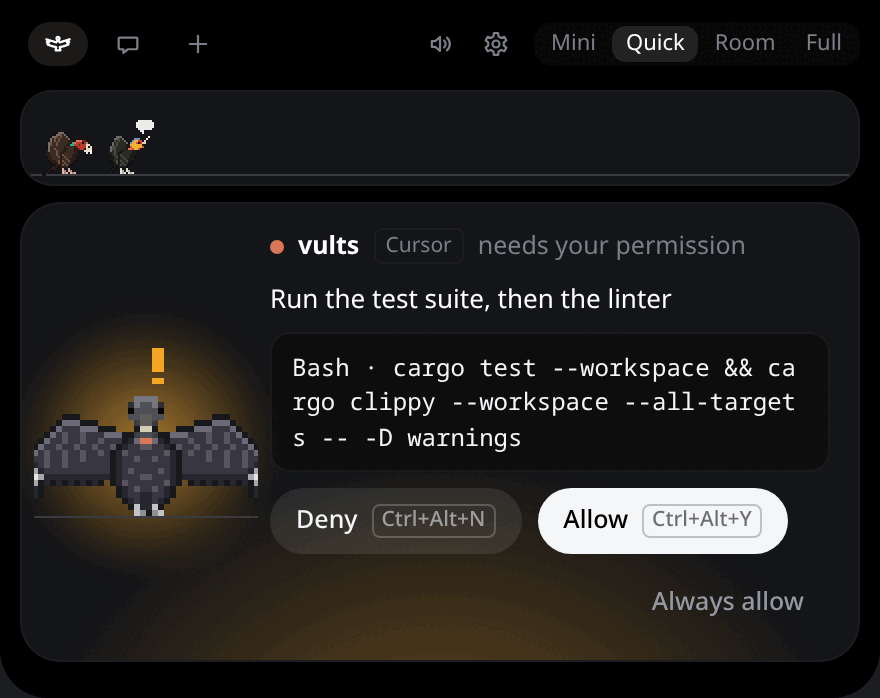
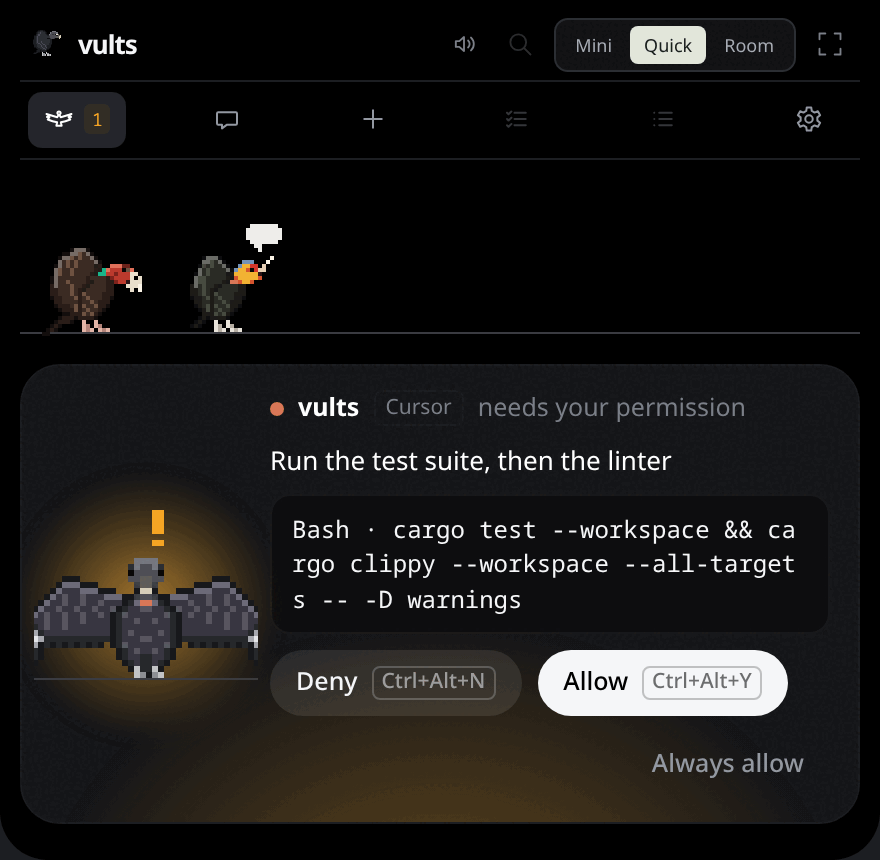
L8: Tasks and the pill, to match the prototype
Tasks, which the prototype does not draw, in its cards: mono kickers per
roost, quiet cards, outline buttons with New task as the light primary,
rectangular fields. Mini spreads its vults over the wire after Zeca, as
many as there are, with the prototype's fuel under it: a hairline per
plan, amber from 70% and red from 90%. The docs' pictures are taken again.

Claude-Session: https://claude.ai/code/session_01FYCciNdEutL3RFauTHRBCD

diff --git a/ui/src/island/render.ts b/ui/src/island/render.ts
@@ -23,6 +23,7 @@ import {
   COMPACT_SCENE,
   COMPACT_W,
   FOCUS_SCENE,
+  compactAt,
   HABITAT_COLUMN,
   HABITAT_PLACES,
   HABITAT_SCENE,
@@ -263,13 +264,17 @@ export function createIsland(root: HTMLElement, actions: Actions): Island {
   const focusScene = new Scene(FOCUS_SCENE, hidden);
   const habitatScene = new Scene(HABITAT_SCENE, hidden);
   let habitatPlaces = HABITAT_PLACES;
+  let compactPerched = -1;
   const ticker = new Ticker();
   /** Zeca's place in the focus card: his canvas and the glow behind him. It moves with the card. */
   const perch = el("div", { class: "perch" }, el("span", { class: "glow" }), focusScene.canvas);
 
   const badges = el("div", { class: "badges" });
   // Mini has no text (ADR 0021): what it would say is its label, for a screen reader.
-  const compact = el("div", { class: "layer compact" }, compactScene.canvas, badges);
+  // The prototype's fuel: each plan's most-used window as a hairline under the pill, in its color.
+  const fuel = el("div", { class: "pill-fuel" });
+  fuel.setAttribute("aria-hidden", "true");
+  const compact = el("div", { class: "layer compact" }, compactScene.canvas, badges, fuel);
   compact.setAttribute("role", "button");
   compact.tabIndex = 0;
   compact.addEventListener("keydown", (e) => {
@@ -997,6 +1002,17 @@ export function createIsland(root: HTMLElement, actions: Actions): Island {
     // Someone needs you: the pill's border pulses amber.
     // Not while paused: every card is answered in its terminal then.
     compact.classList.toggle("needs", !paused && shown.some((s) => s.attention === "needs-you"));
+    const plans = new Map<string, number>();
+    for (const w of usage) plans.set(w.agent, Math.max(plans.get(w.agent) ?? 0, w.used_percent));
+    fuel.replaceChildren(
+      ...[...plans].map(([agent, used]) => {
+        const bar = el("b");
+        bar.style.width = `${Math.min(100, Math.round(used))}%`;
+        // Amber from 70%, red from 90%, as the island's meters say it.
+        bar.style.background = used >= 90 ? "var(--error)" : used >= 70 ? "var(--warn)" : `var(--agent-${agent}, var(--agent-other))`;
+        return el("i", {}, bar);
+      }),
+    );
     const byKey = new Map(shown.map((s) => [key(s), s]));
     badges.replaceChildren(
       ...vults.flatMap((slot) => {
@@ -1143,6 +1159,12 @@ export function createIsland(root: HTMLElement, actions: Actions): Island {
     // With Zeca off (ADR 0010) an empty wire stays empty.
     const idle = zecaShown() ? { clip: idleClip(), agent: "claude" as const, alone: true } : null;
     assignSpecies(shown);
+    // The pill's vults spread over the wire after Zeca, as many as there are (up to eight).
+    const perched = Math.min(COMPACT_SCENE.vults.max, shown.filter((s) => s !== front).length);
+    if (perched !== compactPerched) {
+      compactPerched = perched;
+      compactScene.resize(COMPACT_W, COMPACT_SCENE.vults.max, compactAt(perched));
+    }
     compactScene.update(shown, front, front ? null : idle);
     if (chatShown) focusScene.update([], null, { clip: chat.clip(now), agent: chat.agent() });
     else focusScene.update([], front, front ? null : idle);

diff --git a/ui/src/surfaces/nest/nest.css b/ui/src/surfaces/nest/nest.css
@@ -791,16 +791,19 @@ body {
   flex-direction: column;
   gap: 12px;
 }
+/* L8: the tasks in the prototype's cards, though it draws no Tasks tab of its own. */
 .task {
-  padding: 10px 12px;
-  border: 1px solid var(--border);
-  border-radius: 12px;
+  padding: 16px 20px;
+  border: 1px solid #292b31;
+  border-radius: 8px;
+  background: #101114;
 }
 .task.done,
 .task.dropped {
   opacity: 0.6;
 }
 .task-goal {
+  font-size: 14px;
   font-weight: 600;
   color: var(--fg);
 }
@@ -821,13 +824,14 @@ body {
   align-items: center;
 }
 .task-select {
+  min-height: 30px;
   font: inherit;
   font-size: 12px;
   color: var(--fg);
-  background: var(--panel);
-  border: 1px solid var(--border);
-  border-radius: 8px;
-  padding: 3px 6px;
+  background: #141518;
+  border: 1px solid #303239;
+  border-radius: 6px;
+  padding: 4px 8px;
 }
 .task-new {
   display: flex;
@@ -839,10 +843,10 @@ body {
   font: inherit;
   font-size: 13px;
   color: var(--fg);
-  background: var(--panel);
-  border: 1px solid var(--border);
-  border-radius: 8px;
-  padding: 6px 8px;
+  background: #141518;
+  border: 1px solid #303239;
+  border-radius: 6px;
+  padding: 8px 10px;
   resize: vertical;
 }
 .tasks-finished {
@@ -853,13 +857,14 @@ body {
 }
 .task-issue-input,
 .task-budget-input {
+  min-height: 30px;
   font: inherit;
   font-size: 12px;
   color: var(--fg);
-  background: var(--panel);
-  border: 1px solid var(--border);
-  border-radius: 8px;
-  padding: 3px 6px;
+  background: #141518;
+  border: 1px solid #303239;
+  border-radius: 6px;
+  padding: 4px 8px;
   width: 170px;
 }
 .task-budget-input {
@@ -1542,11 +1547,30 @@ body {
 }
 /* Tasks (U8): each roost's tasks under its name; the review loop's rounds as marks. */
 .tasks-roost {
-  margin: 10px 0 0;
-  font-size: 11px;
-  letter-spacing: 0.04em;
+  margin: 14px 0 -2px;
+  font: 9px var(--mono);
+  letter-spacing: 1.5px;
   text-transform: uppercase;
-  color: var(--fg-muted);
+  color: #9da29b;
+}
+/* The tab's buttons as the prototype's: bordered outlines, a light primary. */
+.nest-tasks .btn {
+  min-height: 30px;
+  padding: 5px 11px;
+  border: 1px solid #3a3d44;
+  border-radius: 6px;
+  background: none;
+  font-size: 11.5px;
+}
+.nest-tasks .btn:hover:not(:disabled) {
+  border-color: #6b7065;
+  background: var(--raised);
+}
+.nest-tasks .btn.primary {
+  border-color: #e8eae4;
+  background: #e8eae4;
+  color: #111;
+  font-weight: 650;
 }
 .task-rounds-line {
   display: flex;

diff --git a/ui/src/island/scene.ts b/ui/src/island/scene.ts
@@ -38,8 +38,8 @@ export interface SceneLayout {
 /** Width of a perched bird at 1x, in CSS pixels. */
 export const BIRD_W = 24;
 
-/** Mini, the pill (ADR 0021): no text, only the flock. Zeca on the left, up to eight vults roosting
- *  along the wire from the right. */
+/** Mini, the pill (ADR 0021, the prototype's): no text, only the flock. Zeca on the left, up to
+ *  eight vults spread along the wire after him. */
 export const COMPACT_W = 340;
 export const COMPACT_H = 38;
 export const COMPACT_SCENE: SceneLayout = {
@@ -50,7 +50,7 @@ export const COMPACT_SCENE: SceneLayout = {
   vults: {
     scale: 1,
     max: 8,
-    at: (slot) => ({ x: COMPACT_W - 14 - BIRD_W - slot * 30, wire: 33 }),
+    at: (slot) => ({ x: 52 + slot * 36, wire: 33 }),
   },
   skyTop: 0,
   flights: true,
@@ -58,6 +58,14 @@ export const COMPACT_SCENE: SceneLayout = {
   // No room over their heads: the badges say it.
   emotes: false,
 };
+
+/** The pill's places for `n` vults: spread evenly from after Zeca to the right end. */
+export function compactAt(n: number): SceneLayout["vults"]["at"] {
+  const first = 52;
+  const last = COMPACT_W - 14 - BIRD_W;
+  const step = n > 1 ? (last - first) / (n - 1) : 0;
+  return (slot) => ({ x: Math.round(first + slot * step), wire: 33 });
+}
 
 /** The focus card: Zeca large, on his own piece of wire. */
 /** Zeca large (3x) on his own piece of wire, with room over his head for a mark. */

diff --git a/tests/visual/mini.spec.ts b/tests/visual/mini.spec.ts
@@ -23,8 +23,8 @@ test("mini: a quiet flock has no amber edge", async ({ page }) => {
 test("mini: a click on a vult opens the island on its session", async ({ page }) => {
   await page.goto(lab("state=busy-flock"));
   const box = (await page.locator("#island .compact").boundingBox())!;
-  // The first vult roosts at the right end of the wire (scene.ts, COMPACT_SCENE).
-  await page.mouse.click(box.x + 340 - 14 - 12, box.y + 24);
+  // The first vult roosts right after Zeca (scene.ts, compactAt).
+  await page.mouse.click(box.x + 52 + 12, box.y + 24);
   await expect(page.locator("#island")).toHaveClass(/is-open/);
   // That vult's session is in front now.
   const id = await page.locator("body").getAttribute("data-focus");

diff --git a/ui/src/island/island.css b/ui/src/island/island.css
@@ -96,6 +96,29 @@ button:focus-visible,
   width: 340px;
   height: 38px;
 }
+.pill-fuel {
+  position: absolute;
+  right: 14px;
+  bottom: 1px;
+  left: 14px;
+  display: flex;
+  gap: 8px;
+  height: 2px;
+  pointer-events: none;
+}
+.pill-fuel i {
+  position: relative;
+  flex: 1;
+  overflow: hidden;
+  border-radius: 1px;
+  background: rgba(255, 255, 255, 0.08);
+}
+.pill-fuel b {
+  position: absolute;
+  top: 0;
+  bottom: 0;
+  left: 0;
+}
 /* Someone needs you: the pill's edge pulses amber. Still where motion is reduced. */
 .compact::after {
   content: "";

diff --git a/ui/src/surfaces/nest/tasks.ts b/ui/src/surfaces/nest/tasks.ts
@@ -448,7 +448,7 @@ export function createTasks(backend: TasksBackend): { element: HTMLElement; refr
             "div",
             { class: "proposal-actions" },
             el("button", {
-              class: "btn small",
+              class: "btn small primary",
               text: t("New task"),
               onclick: () => {
                 const first = backend.folders()[0];

diff --git a/docs/dev/plan-living-flock.md b/docs/dev/plan-living-flock.md
@@ -155,7 +155,7 @@ wait until they do), D7 (Zeca optional).
 | L5 | **Done.** Sub-tabs are the U11 filters (the card's groups, not the prototype's Inbox/Issues/Releases, which GitHub's card does not hold); no account name (gh keeps it). **Nest › Connections.** Connector chips with counts and *+*; the connector's head (account, synced, refresh); its groups as sub-tabs; the list beside the selected row's detail (checks, review, branch) and *Open in GitHub* | Visual tests; the U11 filters' tests on the new look |
 | L6 | **Done.** The Settings lab is `tests/visual/settings.spec.ts`, on Settings' own page with a mocked bridge. **Settings.** The sidebar in groups with icons (Experience: General, Chat & voice, Flock & Zeca; Work: Agents, Approvals, Projects; System: Activity, Connectors, Phone, About); eyebrow, title and lede; rows inside cards | Visual tests of Settings' pages (`tests/visual/settings.spec.ts`) |
 | L7 | **Done**: the header and its tabs, the habitat at 2x with names (six places, +N in the last); the quick views keep their own look until K2. **Quick, the island.** The header (mark, search, switch, open), the icon tabs with counts, the habitat over roost labels, the needs-you chip; the quick Chat, Activity and Connections views as the prototype draws them | Island baselines; card positions, Y/N, 1 to 9, Ctrl+Alt+Y/N unchanged |
-| L8 | **Tasks and the rest.** Tasks, which the prototype does not draw, in the same cards and type; the Mini pill checked against it; the docs' pictures regenerated | Visual tests; `docs-shots` |
+| L8 | **Done.** Tasks in the prototype's cards and buttons; the pill's vults spread over the wire with the plans' fuel line under it; the docs' pictures taken again. **Tasks and the rest.** Tasks, which the prototype does not draw, in the same cards and type; the Mini pill checked against it; the docs' pictures regenerated | Visual tests; `docs-shots` |
 
 Order: L0 and L1 first (every tab sits in the frame), then L2 to L7 one PR each, L8 last. Each
 step compares its screenshots with the prototype's at the same size before review.

diff --git a/CHANGELOG.md b/CHANGELOG.md
@@ -13,6 +13,7 @@ What changed in each release, newest first. Each release's notes on GitHub come 
 - **The Nest's Connections, as the prototype draws it:** a chip per connector, when it last synced and **↻ Refresh**, the filters as tabs, rows by group with their state, and the row picked in detail with **Open in GitHub ↗**.
 - **Settings, as the prototype draws it:** the sidebar in three groups (Experience, Work, System) with icons, a kicker over each page's title, rows in quiet cards, the prototype's switches and buttons.
 - **Quick, as the prototype draws it:** the island's header with its mark, sound, search and the size switch, the tabs as icons with counts and Settings at the end, and the flock twice its size with each session's name under its bird.
+- **Tasks and the pill, to match:** the Tasks tab in the same cards and buttons; Mini spreads the flock over its wire, with a hairline per plan for its usage.
 - **Zeca's memory:** **Settings → Chat & voice → Memory**, off until you turn it on. A journal of each agent turn, each card's answer and the chat's lines, secrets redacted, kept 90 days on this computer; only what joins a conversation reaches its model.
 - **He remembers in every conversation:** what he knows about you, what he learned and the project's facts join the conversation when it starts, fixed for its whole length; each message also carries the date and your sessions, and up to three passages from earlier days that answer it.
 - **Only you write it:** `/remember <fact>` and `/forget <words>` in the chat; what Zeca proposes (his tool, or what he read in a finished conversation with **Suggest what to remember** on) waits in the **Memory** beside the Nest's Chat, with its place and a diff, until you accept it. Every change can be undone. A fact said again in other words is never kept twice.

diff --git a/docs/pt-br/guide/island.md b/docs/pt-br/guide/island.md
@@ -1,5 +1,5 @@
 # A ilha
-<!-- source: afed022616a4 -->
+<!-- source: 1d1c07cb7bfe -->
 
 A ilha fica pendurada na borda de cima da tela. No KDE Plasma, Hyprland, Sway e outros compositores
 com layer-shell, ela fica acima de todas as janelas, como um painel; no GNOME, é uma janela comum
@@ -68,7 +68,8 @@ Ligue-o de volta no mesmo lugar; sem reiniciar, nos dois casos.
 ![A ilha compacta: o Zeca com a sessão da frente, e vults com seus selos](../../assets/island-compact-flock.png)
 
 **Compacta** (o **Mini** do seletor de tamanho), a ilha é uma pequena pílula sem texto, só o bando:
-o Zeca à esquerda com a sessão da frente, e até oito vults ao longo do fio. As cores significam o
+o Zeca à esquerda com a sessão da frente, até oito vults espalhados pelo fio e, embaixo, uma linha
+fina por plano com o uso dele (âmbar a partir de 70%, vermelho a partir de 90%). As cores significam o
 mesmo em todo lugar: âmbar para uma permissão, ciano para uma pergunta, verde quando concluiu,
 vermelho quando falhou. Um vult num desses estados usa um selo dessa cor, e enquanto alguém precisa
 de você a borda da pílula pulsa em âmbar. Deixe o ponteiro sobre um vult e ele olha para você (um

diff --git a/docs/guide/island.md b/docs/guide/island.md
@@ -59,7 +59,8 @@ Turn him back on in the same place; no restart either way.
 ![The compact island: Zeca with the session in front, and vults with their badges](../assets/island-compact-flock.png)
 
 **Compact** (the size switch's **Mini**), the island is a small pill with no text, only the flock:
-Zeca on the left with the session in front, and up to eight vults along the wire. Colors mean the
+Zeca on the left with the session in front, up to eight vults spread along the wire, and under it a
+hairline per plan showing its usage (amber from 70%, red from 90%). Colors mean the
 same everywhere: amber for a permission, cyan for a question, green when done, red when it failed. A
 vult in one of those states wears a badge of that color, and while someone needs you the pill's
 edge pulses amber. Rest the pointer on a vult and it looks at you (one in the air comes down);
